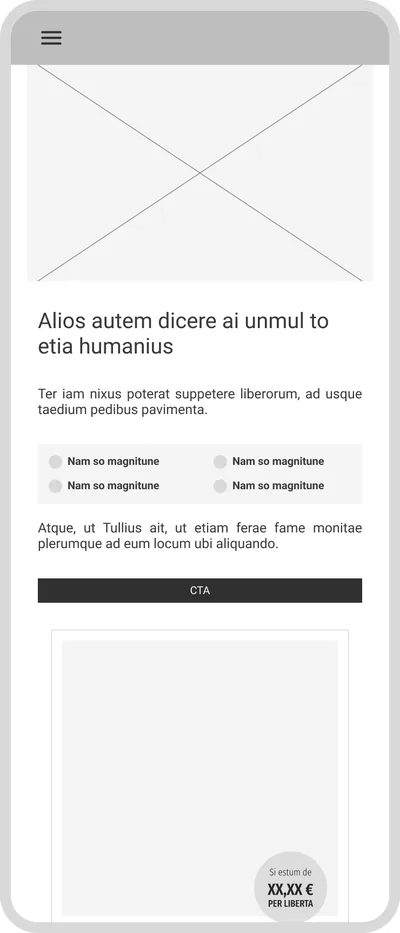
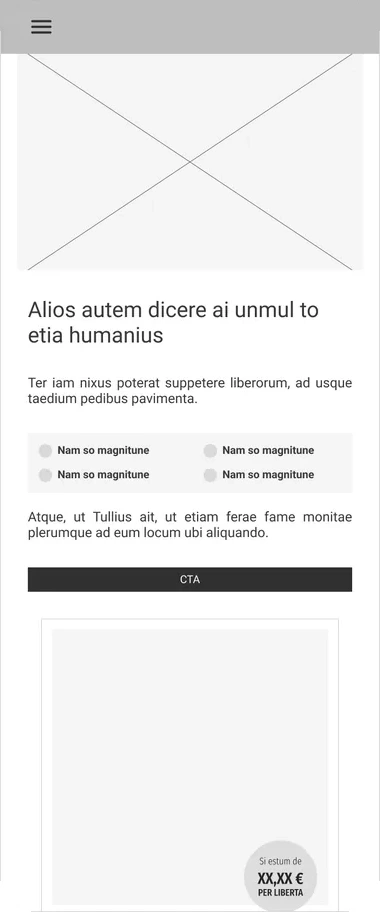
Wireframes : même présentation que les écrans finaux, sans cadre d'appareil
Claude-Session: https://claude.ai/code/session_01THwdntjNiSuDEHoKbgxniL

diff --git a/projets/camping-minaudieres/index.html b/projets/camping-minaudieres/index.html
@@ -211,42 +211,42 @@
             <figcaption><span class="st-wf__num">01</span><strong>Accueil</strong>Présenter le camping et donner accès à la réservation dès l’arrivée</figcaption>
             <div class="st-wf__pair">
               <div class="st-wf__col"><span class="st-wf__label">Desktop</span><div class="st-wf__desk st-scroll" tabindex="0" role="region" aria-label="Wireframe desktop de la page Accueil, défilable"><img src="../../assets/img/camping/wf/accueil-d.webp" alt="Wireframe desktop de la page Accueil" width="866" height="3032" loading="lazy"></div></div>
-              <div class="st-wf__col"><span class="st-wf__label">Mobile</span><div class="st-wf__mob"><img src="../../assets/img/camping/wf/accueil-m.webp" alt="Wireframe mobile de la page Accueil" width="400" height="933" loading="lazy"></div></div>
+              <div class="st-wf__col"><span class="st-wf__label">Mobile</span><div class="st-wf__mob st-scroll" tabindex="0" role="region" aria-label="Wireframe mobile, défilable"><img src="../../assets/img/camping/wf/accueil-m.webp" alt="Wireframe mobile de la page Accueil" width="380" height="911" loading="lazy"></div></div>
             </div>
           </figure>
           <figure class="st-wf">
             <figcaption><span class="st-wf__num">02</span><strong>Hébergements</strong>Comparer les hébergements : prix, capacité, équipements</figcaption>
             <div class="st-wf__pair">
               <div class="st-wf__col"><span class="st-wf__label">Desktop</span><div class="st-wf__desk st-scroll" tabindex="0" role="region" aria-label="Wireframe desktop de la page Hébergements, défilable"><img src="../../assets/img/camping/wf/hebergements-d.webp" alt="Wireframe desktop de la page Hébergements" width="900" height="3152" loading="lazy"></div></div>
-              <div class="st-wf__col"><span class="st-wf__label">Mobile</span><div class="st-wf__mob"><img src="../../assets/img/camping/wf/hebergements-m.webp" alt="Wireframe mobile de la page Hébergements" width="400" height="933" loading="lazy"></div></div>
+              <div class="st-wf__col"><span class="st-wf__label">Mobile</span><div class="st-wf__mob st-scroll" tabindex="0" role="region" aria-label="Wireframe mobile, défilable"><img src="../../assets/img/camping/wf/hebergements-m.webp" alt="Wireframe mobile de la page Hébergements" width="380" height="912" loading="lazy"></div></div>
             </div>
           </figure>
           <figure class="st-wf">
             <figcaption><span class="st-wf__num">03</span><strong>Fiche hébergement</strong>Tout savoir sur un hébergement avant de réserver</figcaption>
             <div class="st-wf__pair">
               <div class="st-wf__col"><span class="st-wf__label">Desktop</span><div class="st-wf__desk st-scroll" tabindex="0" role="region" aria-label="Wireframe desktop de la page Fiche hébergement, défilable"><img src="../../assets/img/camping/wf/fiche-d.webp" alt="Wireframe desktop de la page Fiche hébergement" width="900" height="3119" loading="lazy"></div></div>
-              <div class="st-wf__col"><span class="st-wf__label">Mobile</span><div class="st-wf__mob"><img src="../../assets/img/camping/wf/fiche-m.webp" alt="Wireframe mobile de la page Fiche hébergement" width="400" height="933" loading="lazy"></div></div>
+              <div class="st-wf__col"><span class="st-wf__label">Mobile</span><div class="st-wf__mob st-scroll" tabindex="0" role="region" aria-label="Wireframe mobile, défilable"><img src="../../assets/img/camping/wf/fiche-m.webp" alt="Wireframe mobile de la page Fiche hébergement" width="379" height="912" loading="lazy"></div></div>
             </div>
           </figure>
           <figure class="st-wf">
             <figcaption><span class="st-wf__num">04</span><strong>Activités</strong>Découvrir les activités sur place et aux alentours</figcaption>
             <div class="st-wf__pair">
               <div class="st-wf__col"><span class="st-wf__label">Desktop</span><div class="st-wf__desk st-scroll" tabindex="0" role="region" aria-label="Wireframe desktop de la page Activités, défilable"><img src="../../assets/img/camping/wf/activites-d.webp" alt="Wireframe desktop de la page Activités" width="900" height="3098" loading="lazy"></div></div>
-              <div class="st-wf__col"><span class="st-wf__label">Mobile</span><div class="st-wf__mob"><img src="../../assets/img/camping/wf/activites-m.webp" alt="Wireframe mobile de la page Activités" width="400" height="933" loading="lazy"></div></div>
+              <div class="st-wf__col"><span class="st-wf__label">Mobile</span><div class="st-wf__mob st-scroll" tabindex="0" role="region" aria-label="Wireframe mobile, défilable"><img src="../../assets/img/camping/wf/activites-m.webp" alt="Wireframe mobile de la page Activités" width="380" height="912" loading="lazy"></div></div>
             </div>
           </figure>
           <figure class="st-wf">
             <figcaption><span class="st-wf__num">05</span><strong>Pêche</strong>Mettre en avant l’étang de pêche, activité phare du camping</figcaption>
             <div class="st-wf__pair">
               <div class="st-wf__col"><span class="st-wf__label">Desktop</span><div class="st-wf__desk st-scroll" tabindex="0" role="region" aria-label="Wireframe desktop de la page Pêche, défilable"><img src="../../assets/img/camping/wf/peche-d.webp" alt="Wireframe desktop de la page Pêche" width="864" height="2170" loading="lazy"></div></div>
-              <div class="st-wf__col"><span class="st-wf__label">Mobile</span><div class="st-wf__mob"><img src="../../assets/img/camping/wf/peche-m.webp" alt="Wireframe mobile de la page Pêche" width="400" height="933" loading="lazy"></div></div>
+              <div class="st-wf__col"><span class="st-wf__label">Mobile</span><div class="st-wf__mob st-scroll" tabindex="0" role="region" aria-label="Wireframe mobile, défilable"><img src="../../assets/img/camping/wf/peche-m.webp" alt="Wireframe mobile de la page Pêche" width="379" height="912" loading="lazy"></div></div>
             </div>
           </figure>
           <figure class="st-wf">
             <figcaption><span class="st-wf__num">06</span><strong>Infos pratiques</strong>Réunir accès, horaires, contact et réponses aux questions fréquentes</figcaption>
             <div class="st-wf__pair">
               <div class="st-wf__col"><span class="st-wf__label">Desktop</span><div class="st-wf__desk st-scroll" tabindex="0" role="region" aria-label="Wireframe desktop de la page Infos pratiques, défilable"><img src="../../assets/img/camping/wf/pratiques-d.webp" alt="Wireframe desktop de la page Infos pratiques" width="900" height="2460" loading="lazy"></div></div>
-              <div class="st-wf__col"><span class="st-wf__label">Mobile</span><div class="st-wf__mob"><img src="../../assets/img/camping/wf/pratiques-m.webp" alt="Wireframe mobile de la page Infos pratiques" width="400" height="933" loading="lazy"></div></div>
+              <div class="st-wf__col"><span class="st-wf__label">Mobile</span><div class="st-wf__mob st-scroll" tabindex="0" role="region" aria-label="Wireframe mobile, défilable"><img src="../../assets/img/camping/wf/pratiques-m.webp" alt="Wireframe mobile de la page Infos pratiques" width="380" height="912" loading="lazy"></div></div>
             </div>
           </figure>
         </div>

diff --git a/projets/refonte-site-e-commerce-play-in/index.html b/projets/refonte-site-e-commerce-play-in/index.html
@@ -162,30 +162,21 @@
         <div class="st-h2" style="--bar:350px"><small>03 · Conception</small><h2 id="t-wire">Les wireframes des pages clés</h2></div>
         <p class="st-lead">J’ai conçu les wireframes de chaque page clé pour organiser le contenu, en desktop et en mobile, de la découverte au panier.</p>
         <div class="st-wfs">
-          <figure class="st-wf">
+          <figure class="st-wf st-wf--full">
             <figcaption><span class="st-wf__num">01</span><strong>Accueil</strong>Mises en avant, univers et sélections de produits</figcaption>
-            <div class="st-wf__pair">
-              <div class="st-wf__col"><span class="st-wf__label">Desktop</span><div class="st-wf__desk st-scroll" tabindex="0" role="region" aria-label="Wireframe desktop : Accueil, défilable"><img src="../../assets/img/play-in-ecommerce/wf/home-d.webp" alt="Wireframe desktop : Accueil" width="1450" height="6500" loading="lazy"></div></div>
-              <div class="st-wf__col"><span class="st-wf__label">Mobile</span><div class="st-wf__mob"><img src="../../assets/img/play-in-ecommerce/wf/home-m.webp" alt="Wireframe mobile : Accueil" width="740" height="1726" loading="lazy"></div></div>
-            </div>
+            <div class="st-wf__pair"><div class="st-wf__col"><span class="st-wf__label">Desktop</span><div class="st-wf__desk st-scroll" tabindex="0" role="region" aria-label="Wireframe desktop : Accueil, défilable"><img src="../../assets/img/play-in-ecommerce/wf/home-d.webp" alt="Wireframe desktop : Accueil" width="1450" height="6500" loading="lazy"></div></div><div class="st-wf__col"><span class="st-wf__label">Mobile</span><div class="st-wf__mob st-scroll" tabindex="0" role="region" aria-label="Wireframe mobile : Accueil, défilable"><img src="../../assets/img/play-in-ecommerce/wf/home-m.webp" alt="Wireframe mobile : Accueil" width="700" height="1686" loading="lazy"></div></div></div>
           </figure>
-          <figure class="st-wf">
+          <figure class="st-wf st-wf--full">
             <figcaption><span class="st-wf__num">02</span><strong>Page produit</strong>Prix, quantité et ajout au panier dès le premier écran</figcaption>
-            <div class="st-wf__pair">
-              <div class="st-wf__col"><span class="st-wf__label">Desktop</span><div class="st-wf__desk st-scroll" tabindex="0" role="region" aria-label="Wireframe desktop : Fiche produit, défilable"><img src="../../assets/img/play-in-ecommerce/wf/produit-d.webp" alt="Wireframe desktop : Fiche produit" width="1450" height="5428" loading="lazy"></div></div>
-              <div class="st-wf__col"><span class="st-wf__label">Mobile</span><div class="st-wf__mob"><img src="../../assets/img/play-in-ecommerce/wf/produit-m.webp" alt="Wireframe mobile : Fiche produit" width="740" height="1726" loading="lazy"></div></div>
-            </div>
+            <div class="st-wf__pair"><div class="st-wf__col"><span class="st-wf__label">Desktop</span><div class="st-wf__desk st-scroll" tabindex="0" role="region" aria-label="Wireframe desktop : Page produit, défilable"><img src="../../assets/img/play-in-ecommerce/wf/produit-d.webp" alt="Wireframe desktop : Page produit" width="1450" height="5428" loading="lazy"></div></div><div class="st-wf__col"><span class="st-wf__label">Mobile</span><div class="st-wf__mob st-scroll" tabindex="0" role="region" aria-label="Wireframe mobile : Page produit, défilable"><img src="../../assets/img/play-in-ecommerce/wf/produit-m.webp" alt="Wireframe mobile : Page produit" width="700" height="1686" loading="lazy"></div></div></div>
           </figure>
-          <figure class="st-wf">
+          <figure class="st-wf st-wf--full">
             <figcaption><span class="st-wf__num">03</span><strong>Panier</strong>Articles, quantités et récapitulatif toujours visible</figcaption>
-            <div class="st-wf__pair">
-              <div class="st-wf__col"><span class="st-wf__label">Desktop</span><div class="st-wf__desk st-scroll" tabindex="0" role="region" aria-label="Wireframe desktop : Panier, défilable"><img src="../../assets/img/play-in-ecommerce/wf/panier-d.webp" alt="Wireframe desktop : Panier" width="1450" height="2896" loading="lazy"></div></div>
-              <div class="st-wf__col"><span class="st-wf__label">Mobile</span><div class="st-wf__mob"><img src="../../assets/img/play-in-ecommerce/wf/panier-m.webp" alt="Wireframe mobile : Panier" width="740" height="1726" loading="lazy"></div></div>
-            </div>
+            <div class="st-wf__pair"><div class="st-wf__col"><span class="st-wf__label">Desktop</span><div class="st-wf__desk st-scroll" tabindex="0" role="region" aria-label="Wireframe desktop : Panier, défilable"><img src="../../assets/img/play-in-ecommerce/wf/panier-d.webp" alt="Wireframe desktop : Panier" width="1450" height="2896" loading="lazy"></div></div><div class="st-wf__col"><span class="st-wf__label">Mobile</span><div class="st-wf__mob st-scroll" tabindex="0" role="region" aria-label="Wireframe mobile : Panier, défilable"><img src="../../assets/img/play-in-ecommerce/wf/panier-m.webp" alt="Wireframe mobile : Panier" width="700" height="1686" loading="lazy"></div></div></div>
           </figure>
           <figure class="st-wf">
-            <figcaption><span class="st-wf__num">04</span><strong>Connexion</strong>Se connecter ou créer un compte sans quitter le panier</figcaption>
-            <div class="st-wf__col"><span class="st-wf__label">Desktop</span><div class="st-wf__desk st-scroll st-ui" tabindex="0" role="region" aria-label="Wireframe desktop : connexion depuis le panier, défilable"><img src="../../assets/img/play-in-ecommerce/wf/connexion-d.webp" alt="Wireframe desktop : fenêtre de connexion par-dessus le panier" width="1450" height="2895" loading="lazy"></div></div>
+            <figcaption><span class="st-wf__num">04</span><strong>Connexion</strong>Se connecter ou créer un compte sans quitter la page</figcaption>
+            <div class="st-wf__col"><span class="st-wf__label">Desktop</span><div class="st-wf__img"><img class="st-match-scroll" src="../../assets/img/play-in-ecommerce/wf/connexion-d.webp" alt="Wireframe desktop : fenêtre de connexion par-dessus le panier" width="1450" height="1080" loading="lazy"></div></div>
           </figure>
         </div>
         <p class="st-note">Faites défiler les versions desktop pour voir la page en entier.</p>

diff --git a/assets/css/style.css b/assets/css/style.css
@@ -595,16 +595,3 @@ ul { padding: 0; list-style: none; }
 .st-wfs > .st-wf--full { grid-column: 1 / -1; }
 .st-wf--full .st-wf__pair .st-scroll { height: 640px; }
 @media (max-width: 750px) { .st-wf--full .st-wf__pair .st-scroll { height: 340px; } }
-/* Wireframes : cadre façon fenêtre de navigateur autour des versions desktop,
-   même gris que le contour des maquettes mobiles, sans marge autour de l'image */
-section[aria-labelledby="t-wire"] .st-wf__desk.st-scroll {
-  border: 2px solid transparent; border-top-width: 30px; border-radius: 6px 6px 0 0;
-  background:
-    radial-gradient(circle, #a6a6a6 4.5px, transparent 5px) 6px -2px / 16px 30px no-repeat border-box,
-    radial-gradient(circle, #a6a6a6 4.5px, transparent 5px) 22px -2px / 16px 30px no-repeat border-box,
-    radial-gradient(circle, #a6a6a6 4.5px, transparent 5px) 38px -2px / 16px 30px no-repeat border-box,
-    linear-gradient(#fff, #fff) 68px 7px / calc(100% - 80px) 14px no-repeat border-box,
-    #d9d9d9 border-box;
-  box-shadow: 0 12px 30px rgba(0,0,0,.10); padding: 0;
-}
-section[aria-labelledby="t-wire"] .st-wf__desk.st-scroll img { background: #fff; }
